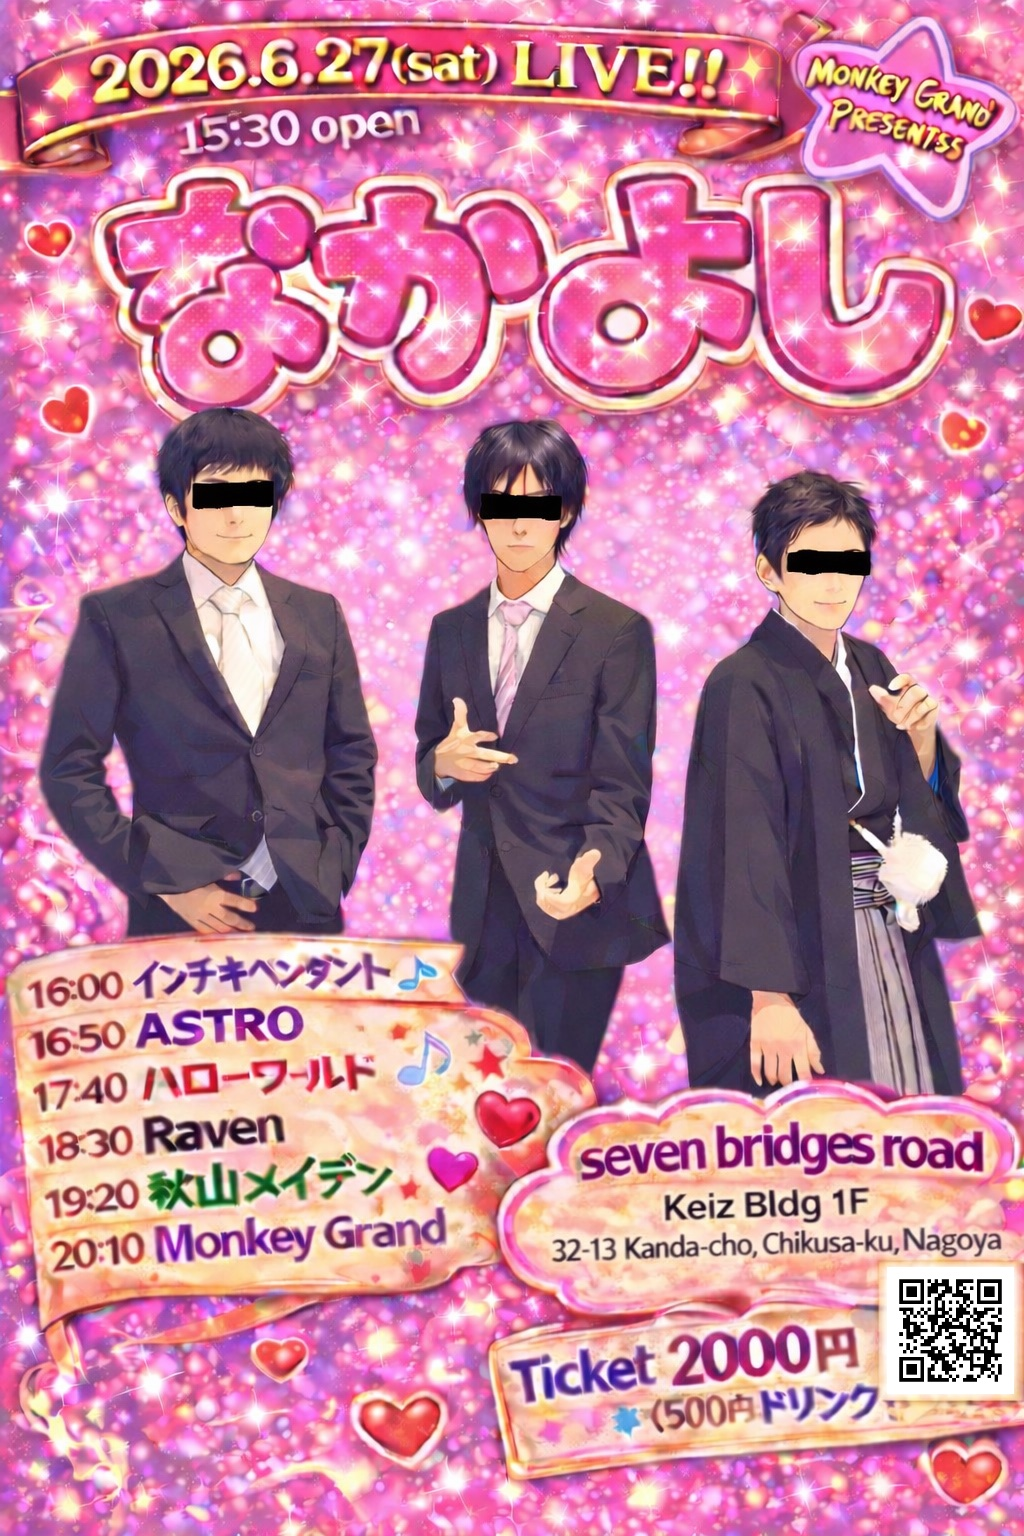
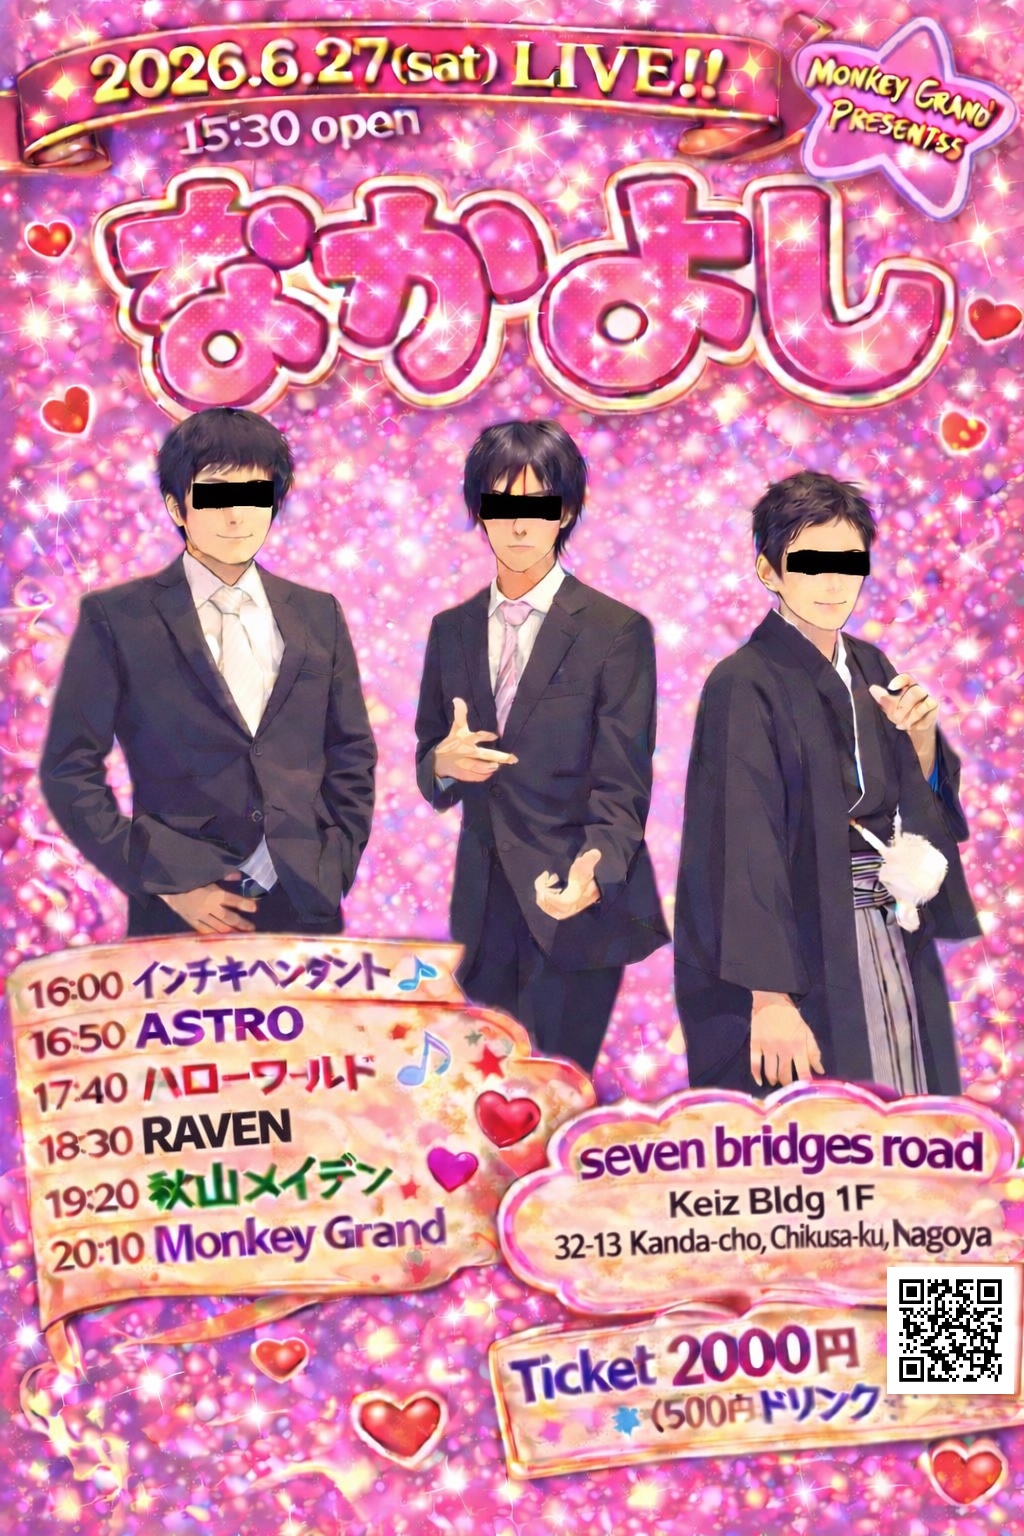
フライヤー画像差し替え、RavenをRAVENに変更

diff --git a/index.html b/index.html
@@ -385,7 +385,7 @@ footer .band-name{
     <li class="tt-item"><span class="tt-time">16:00</span><span class="tt-name">インチキペンダント<span class="emoji">🎵</span></span></li>
     <li class="tt-item"><span class="tt-time">16:50</span><span class="tt-name">ASTRO<span class="emoji">⭐</span></span></li>
     <li class="tt-item"><span class="tt-time">17:40</span><span class="tt-name">ハローワールド<span class="emoji">🎵✨</span></span></li>
-    <li class="tt-item"><span class="tt-time">18:30</span><span class="tt-name">Raven<span class="emoji">💜</span></span></li>
+    <li class="tt-item"><span class="tt-time">18:30</span><span class="tt-name">RAVEN<span class="emoji">💜</span></span></li>
     <li class="tt-item"><span class="tt-time">19:20</span><span class="tt-name">秋山メイデン<span class="emoji">❤</span></span></li>
     <li class="tt-item"><span class="tt-time">20:10</span><span class="tt-name">Monkey Grand<span class="emoji">🐒👑</span></span></li>
   </ul>
